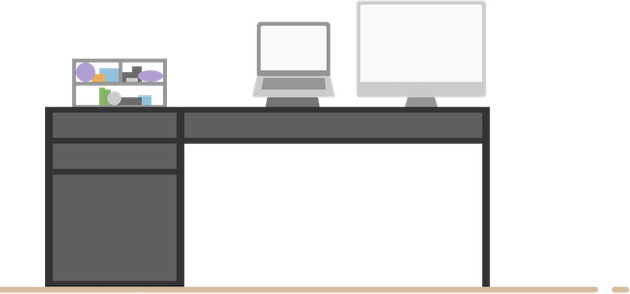
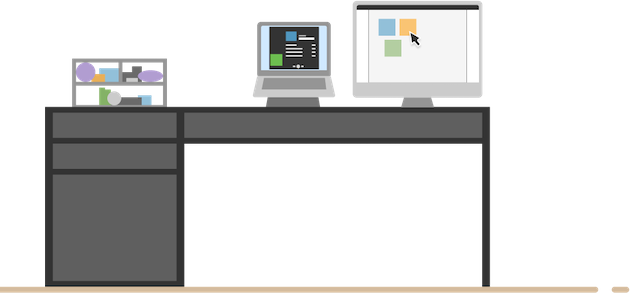
added screensaver gifs and fixed desk image positioning

Changed region(s): [[0.3921, 0.0, 0.7841, 0.3367], [0.6333, 0.3367, 0.6937, 0.3673]]

diff --git a/script.js b/script.js
@@ -1,10 +1,13 @@
 (function() {
     'use strict';
 
-    const button = document.querySelector('button');
     const body = document.querySelector('body');
-    const banner = document.querySelector('#banner');
+    const banner = document.querySelector('header');
+    const textPrompt = document.querySelector('.textPrompt');
     const desk = document.querySelector('#desk');
+    const desktop = document.querySelector('.desktop');
+    const desktopDark = document.querySelector('#desktopScreenSaver');
+    const laptop = document.querySelector('#laptop');
     const lamp = document.querySelector('#lamp')
     const lampSwitch = document.querySelector('#lampSwitchArea')
     const lampHead = document.querySelector('#lampHead');
@@ -14,36 +17,69 @@
 
     lampSwitch.addEventListener('click', function() {
         if (mode === 'dark') {
+            // sound for switching on lamp
             const onSound = new Audio('sounds/on.mp3');
             onSound.play();
 
+            // changing overall color scheme to dark
             body.className = 'switch';
             banner.className = 'switch';
-            // button.className = 'switch';
             for (const section of sections) {
                 section.className = 'switch';
             }
+
+            // hides prompt after user discovers button interaction
+            textPrompt.className = 'hidden';
+
+            // changing desk images to dark
             desk.src = "images/deskDark.png";
+
+            // swapping out monitor image to screensaver
+            desktop.classList.add('hidden');
+            desktopDark.classList.remove('hidden');
+            desktopDark.classList.add('screenSaver');
+
+            laptop.classList.remove('hidden');
+            laptop.classList.add('screenSaver');
+
+            // turning on lamp
             lamp.src = "images/lampDark.png";
             lampHead.src = "images/lampHeadDark.png";
             lampHead.removeAttribute('class');
             light.className = 'flicker';
+
             mode = 'light';
+
+
         } else {
+            //sound for turning lamp off
             const offSound = new Audio('sounds/off.mp3');
             offSound.play();
 
+            // changing overall color scheme to light
             body.removeAttribute('class');
             banner.removeAttribute('class');
-            // button.removeAttribute('class');
             for (const section of sections) {
                 section.removeAttribute('class');
             }
+
+            // changing desk images to light
             desk.src = "images/desk.png";
+
+            // turning on monitors to work mode
+            desktop.classList.remove('hidden');
+            desktopDark.classList.add('hidden');
+            desktopDark.classList.remove('screenSaver');
+
+            laptop.classList.add('hidden');
+            laptop.classList.remove('screenSaver');
+
+            // turning off lamp
             lamp.src = "images/lamp.png";
             lampHead.src = "images/lampHead.png";
             lampHead.className = 'swivel';
             light.removeAttribute('class');
+
             mode = 'dark'
         }
     })

diff --git a/styles.css b/styles.css
@@ -7,6 +7,8 @@ body {
     color: #333;
     font-family: 'DM Sans', sans-serif;
 
+    margin: auto;
+
     transition: all 2s;
 }
 
@@ -22,18 +24,20 @@ body.switch {
     position: relative;
     width: 100%;
     max-width: 1200px;
-    max-height: 750px;
-    /* make sure the columns don't get too small and text stays readable */
     min-width: 900px;
+    max-height: 750px;
 }
 
-header {
-/* }
+.hidden {
+    opacity: 0;
+}
 
-#banner { */
+/* ------ banner styling  ------ */
+
+header {
     display: flex;
     flex-direction: column;
-    gap: 120px;
+    gap: 30px;
     justify-content: space-around;
 
     width: 45vw;
@@ -43,7 +47,7 @@ header {
 
 #headerText {
     margin-top: 60px;
-    margin-left: 60px;
+    padding-left: 60px;
 } 
 
 h1 {
@@ -64,10 +68,36 @@ h2 {
     margin: 4px 0;
 }
 
-#banner.switch {
+header p {
+    line-height: 1.6em;
+    margin-top: 80px;
+    opacity: 0;
+}
+
+.textPrompt {
+    animation: prompt;
+    animation-delay: 10s;
+    animation-duration: 2s;
+    animation-fill-mode: forwards;
+    animation-iteration-count: 1;
+    animation-timing-function: ease-in-out;
+}
+
+@keyframes prompt {
+    0% {opacity: 0;}
+    100% {opacity: 1;}
+}
+
+header span {
+    color: #5396b9;
+}
+
+#header.switch {
     color: rgb(235, 235, 235);
     transition: all 2s;
 }
+
+/* ------ images/desk styling  ----- */
 
 image {
     width: 90%;
@@ -75,27 +105,62 @@ image {
 
 #images {
     position: relative;
+    width: fit-content;
 }
 
 #desk {
     display: block;
+    position: relative;
     margin-bottom: 30px;
     z-index: -2;
     transition: all 2s;
 }
 
+.screenSaver {
+    animation: screenSaver;
+    animation-delay: 3s;
+    animation-duration: 2s;
+    animation-fill-mode: forwards;
+    animation-iteration-count: 1;
+    animation-timing-function: ease-in-out;
+}
+
+@keyframes screenSaver {
+    0% {opacity: 0;}
+    100% {opacity: 1;}
+}
+
+.desktop {
+    position: absolute;
+    right: 23.8%;
+    top: 2%;
+}
+
+#desktopScreenSaver {
+    opacity: 0;
+}
+
+#laptop {
+    position: absolute;
+    right: 48%;
+    top: 8.5%;
+
+    opacity: 0;
+}
+
 #lamp {
     position: absolute;
-    left: 15%;
+    left: 12%;
     top: 9%;
 }
 
 #lampHead {
     position: absolute;
-    left: 22%;
+    left: 18%;
     top: 6%;
     z-index: 2;
 }
+
 .swivel {
     animation-name: swivel;
     animation-delay: 1s;
@@ -115,7 +180,7 @@ image {
 #lampSwitchArea {
     /* background-color: #3F4A5B; */
     position: absolute;
-    left: 21%;
+    left: 18%;
     top: 7.5%;
     width: 50px;
     height: 30px;
@@ -128,7 +193,7 @@ image {
 
 #light {
     position: absolute;
-    left: 22%;
+    left: 18%;
     top: 2%;
     opacity: 0;
     z-index: 0;
@@ -159,8 +224,8 @@ main {
     grid-template-rows: 45vh 37vh;
     gap: 10px;
 
-    /* justify-content: space-evenly; */
-    margin: auto;
+    margin: 60px auto;
+    z-index: 3;
 }
 
 main section {
@@ -308,5 +373,3 @@ button.switch:hover {
     background-color: #333;
     color: rgb(235, 235, 235)
 }
-
-/* ------ transition animation styling  ------ */

diff --git a/index.html b/index.html
@@ -20,7 +20,7 @@
 
     <div id="container">
 
-        <header id="banner">
+        <header>
 
             <!--this is for the interactive banner-->
                 <div id="headerText">
@@ -32,28 +32,40 @@
                     </h2>  
 
                     <h3>sq2023</h3>
+
+                    <!-- action prompt in case users don't know how to interact with the page -->
+                    <p class="textPrompt">It’s getting late...<br>you should probably <span>turn off the lights</span> and take a break</p>   
+                   
                 </div>
 
                 <div id="images">
                     <img src="images/desk.png" width="630" height="315" alt="desk illustration" id="desk">
 
                     <div>
+                        <!-- desk images -->
                         <img src="images/lamp.png" width="55" height="86" alt="desk lamp" id="lamp">
                         <img src="images/lampHead.png" width="47" height="42" alt="lamp head" id="lampHead" class="swivel">
+                        <img src="images/light.png" width="134" height="126" alt="lamp light" id="light">
+
+                        <!-- toggle button -->
                         <div id="lampSwitchArea"></div>
-                         <img src="images/light.png" width="134" height="126" alt="lamp light" id="light">
+
+
+                        <!-- monitor animations images -->
+                        <img src="images/figma.gif" width="123" height="78" alt="screensaver gif" class="desktop">
+                        
+                        <img src="images/screenSaver.gif" width="123" height="78" alt="screensaver gif for desktop" id="desktopScreenSaver" class="hidden desktop">
+
+                        <img src="images/screenSaver.gif" width="67" height="44" alt="screensaver gif for laptop" id="laptop" class="hidden">
                     </div>
                     
                 </div>
-               
 
         </header>
 
         <main>
 
             <section id="projects">
-
-                <!-- <div> -->
                    <h3>ministudios</h3>
                     <nav>
                         <ol>
@@ -62,10 +74,7 @@
                             <li><a href="#">library liberty</a></li>
                         </ol>
                     </nav>  
-                <!-- </div> -->
-               
 
-                <!-- <div> -->
                     <h3>toolkit</h3>
                     <nav>
                         <ol>
@@ -74,9 +83,6 @@
                             <li><a href="#">arrow functions</a></li>
                         </ol>
                     </nav>
-                <!-- </div> -->
-                
-
             </section>
 
             <section id="research">
@@ -97,7 +103,6 @@
                         </li>
                     </ul>
                 </nav>
-
             </section>
 
             <section id="development">
